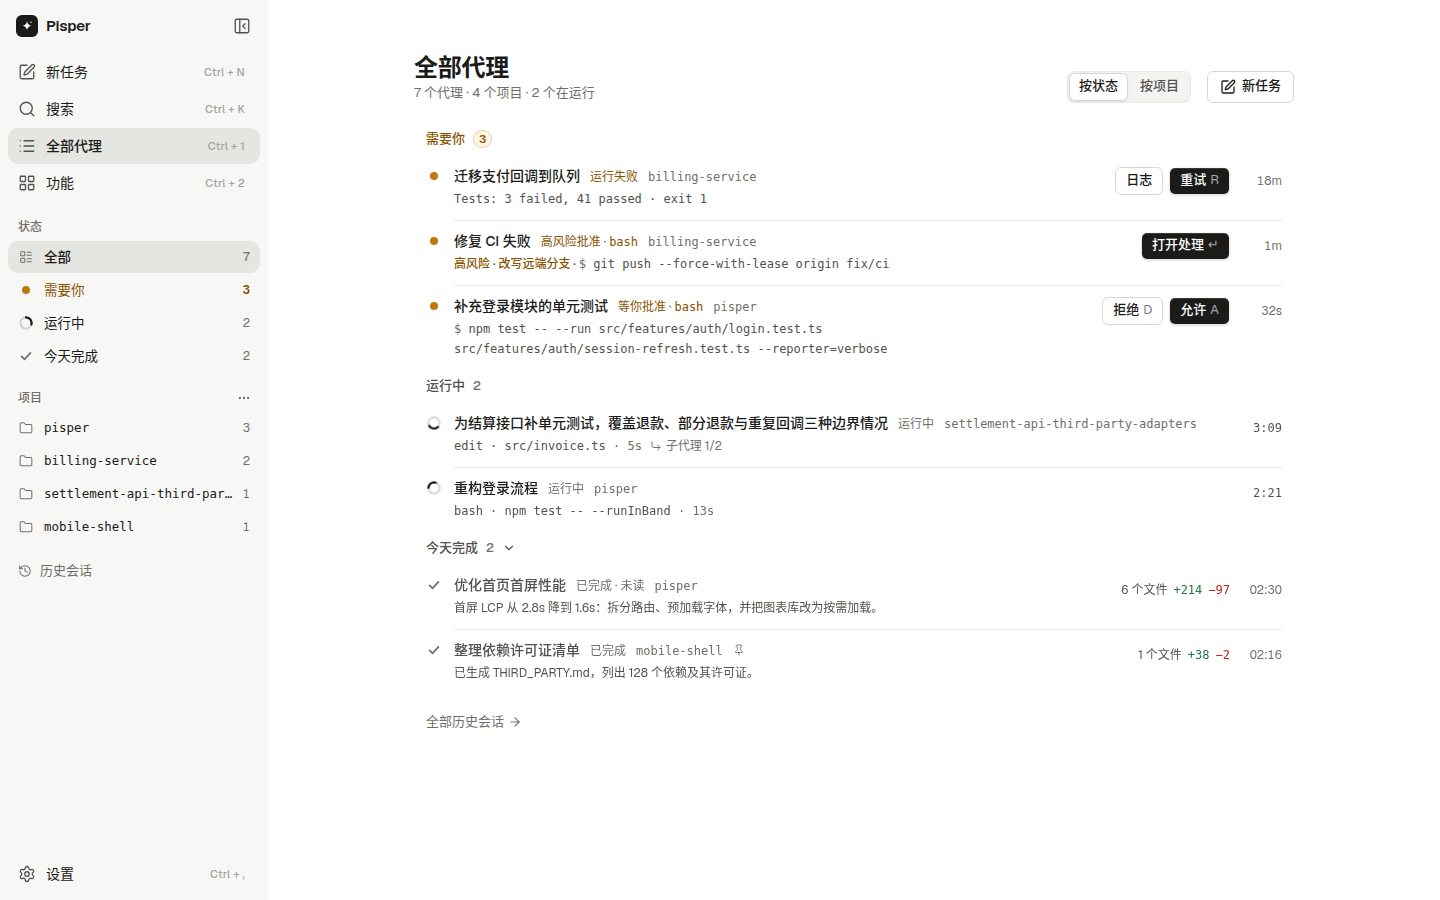
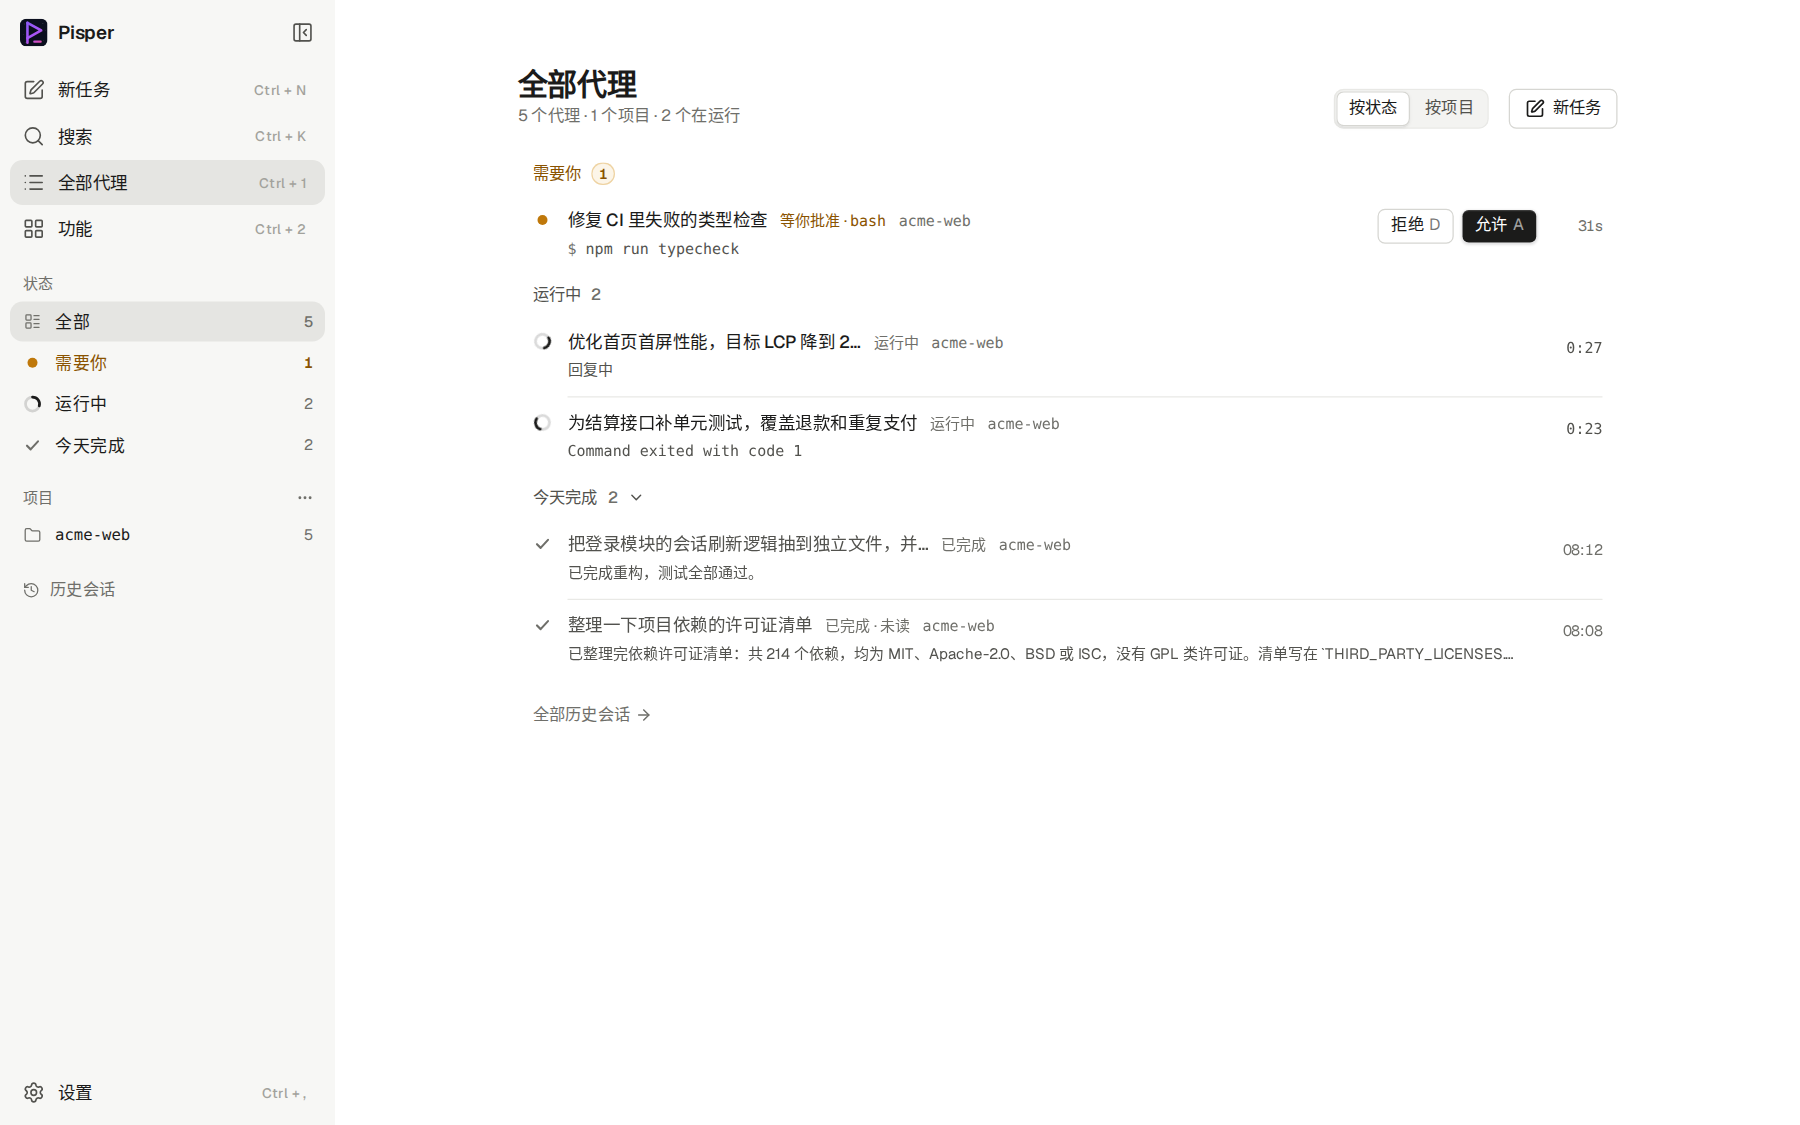
docs(site): 官网产品截图换成新品牌标的版本
桌面会话页、桌面“全部代理”总览、手机会话页与手机全部代理重新拍摄：品牌标为 P 标，
项目名 acme-web，“今天完成”分组与消息时间一致。隔离演示实例与脚本化假模型，不含真实路径或会话内容。
总览图按 1.25 倍拍摄，页面里的宽高标注同步为 1800×1125。

diff --git a/docs/index.html b/docs/index.html
@@ -175,7 +175,7 @@
             <div class="view" role="tabpanel" id="view-desktop" aria-labelledby="view-tab-desktop" data-view-panel>
               <figure class="shot">
                 <a href="shots/desktop-overview.png" target="_blank" rel="noopener noreferrer" aria-label="查看桌面端完整截图">
-                  <img src="shots/web/desktop-overview.webp" alt="Pisper 桌面端全部代理：需要你、运行中、今天完成三组，等待批准的命令可以就地允许或拒绝" width="1440" height="900" loading="lazy" decoding="async" />
+                  <img src="shots/web/desktop-overview.webp" alt="Pisper 桌面端全部代理：需要你、运行中、今天完成三组，等待批准的命令可以就地允许或拒绝" width="1800" height="1125" loading="lazy" decoding="async" />
                 </a>
               </figure>
               <p class="view-caption">
